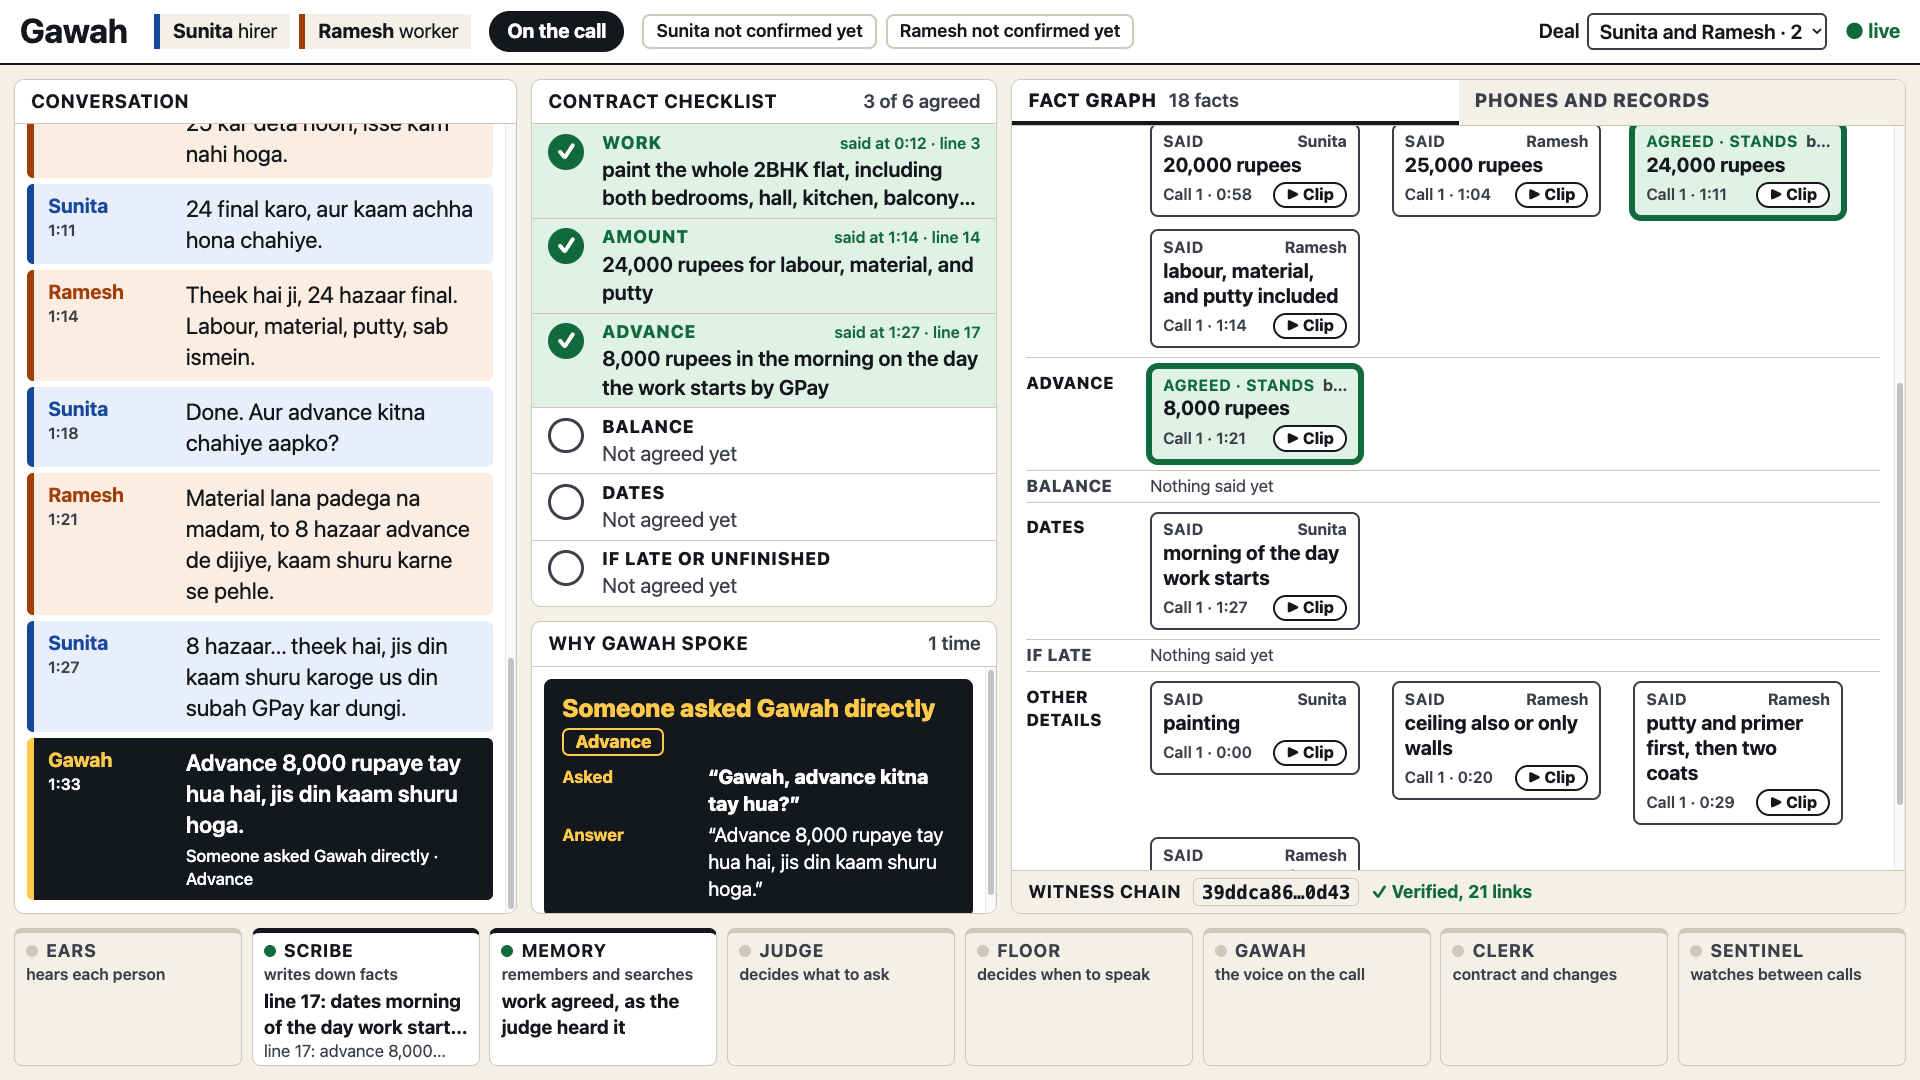
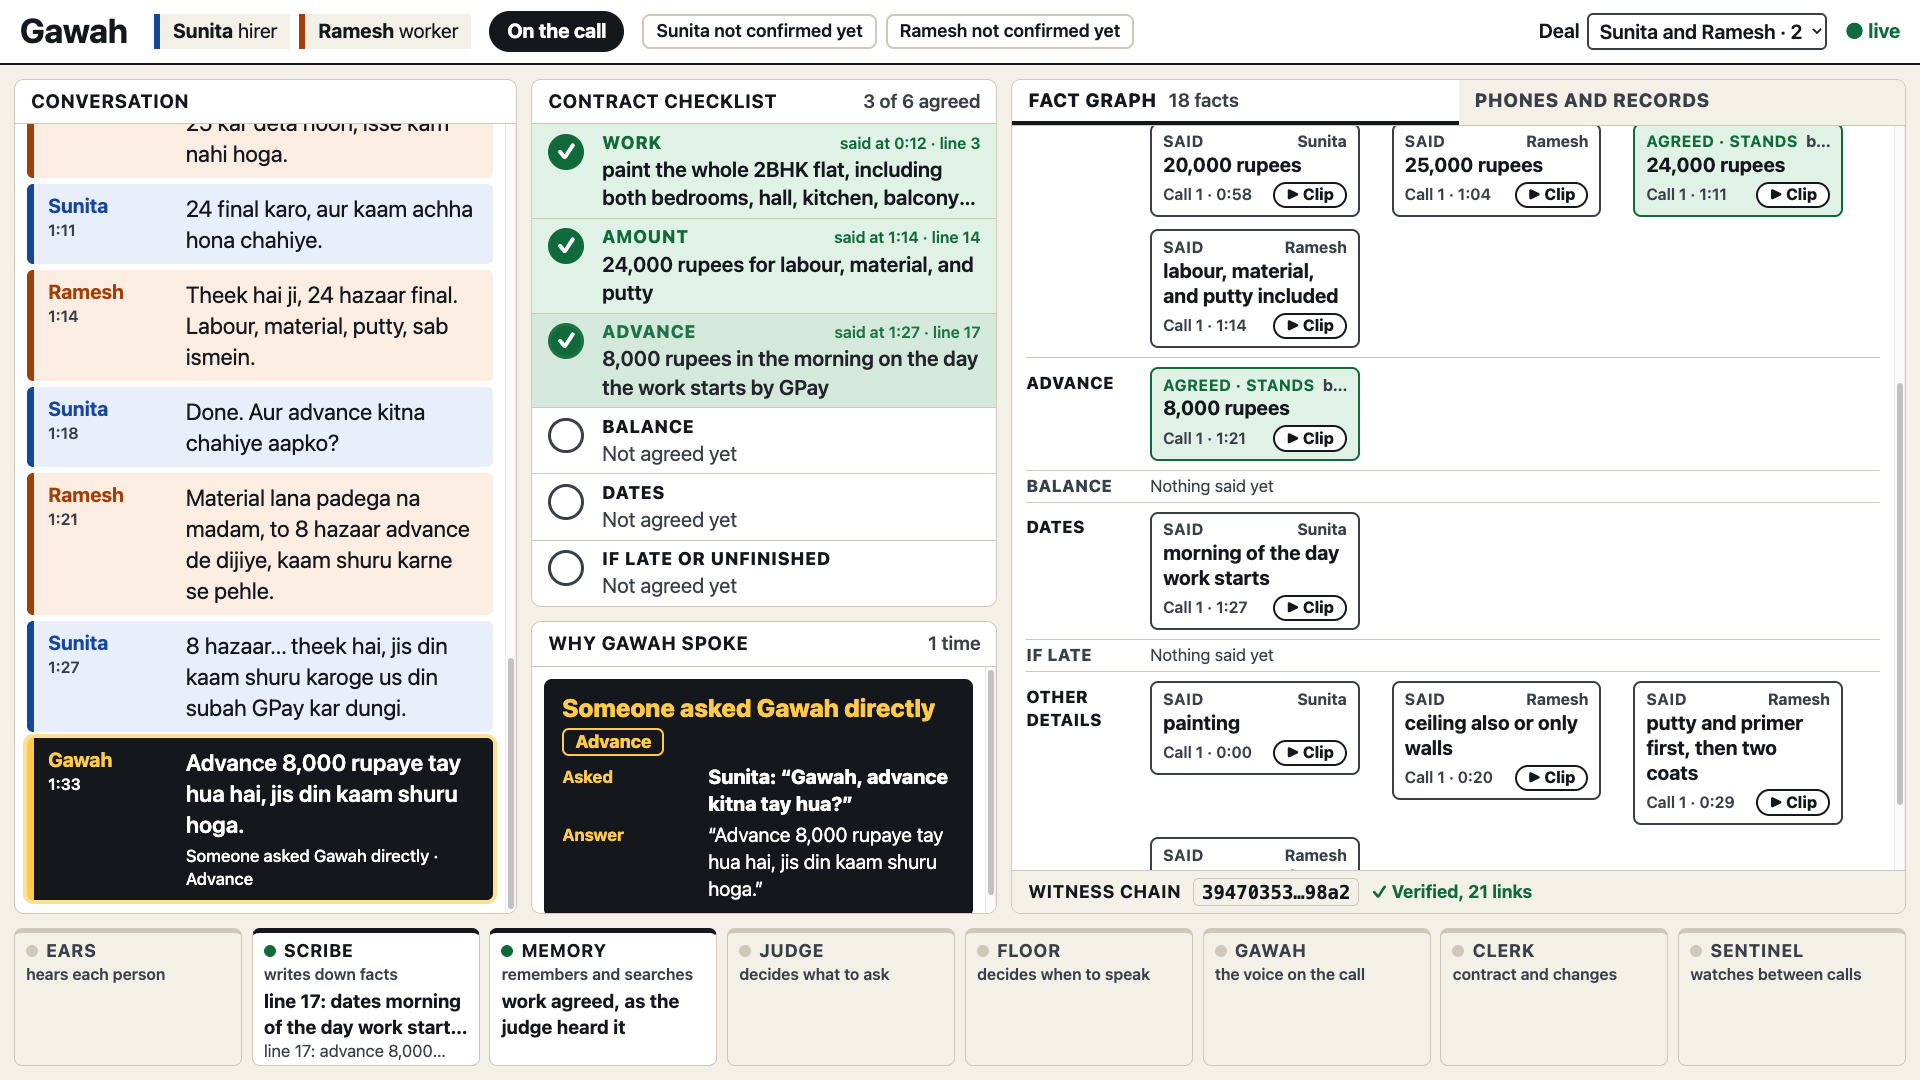
dashboard: a question put to gawah falls back to the line the brain spoke after

diff --git a/app/dashboard/static/render.js b/app/dashboard/static/render.js
@@ -130,11 +130,13 @@ function renderWhy(state, entering) {
     const after = d.afterLine == null ? null
       : line ? `${nameOf(state, line.speaker)} at ${clock(line.start)}, line ${d.afterLine}: “${line.text}”`
       : `line ${d.afterLine}`;
+    const asked = d.question || (d.reason === "addressed_directly" ? line?.text : null);
     return h("article", { class: `decision${i === 0 ? " latest" : ""}${d.id === entering ? " enter" : ""}` },
       h("div", { class: "reason" }, REASONS[d.reason] || d.reason, d.item && h("span", { class: "about" }, ITEM_LABEL[d.item])),
-      // A question put to Gawah reads as the question and the answer under it.
-      d.question ? h("dl", {},
-        h("dt", {}, "Asked"), h("dd", { class: "asked" }, `“${d.question}”`),
+      // A question put to Gawah reads as the question and the answer under it. The brain
+      // does not send the question yet; the line it spoke after is the one that asked.
+      asked ? h("dl", {},
+        h("dt", {}, "Asked"), h("dd", { class: "asked" }, `${line ? `${nameOf(state, line.speaker)}: ` : ""}“${asked}”`),
         h("dt", {}, "Answer"), h("dd", {}, d.spoken ? `“${d.spoken}”${d.interrupted ? " (cut off)" : ""}`
           : d.dropped ? "Nothing: the moment passed" : `${d.instruction} (not said yet)`))
       : h("dl", {},

diff --git a/tests/dashboard_live_shots.py b/tests/dashboard_live_shots.py
@@ -190,7 +190,7 @@ async def main(port: int, out: Path) -> None:
             ))
             await matches_memory(deal)
             why = await chrome.js("document.querySelector('#decisions .decision').textContent")
-            check("Asked“Gawah, advance kitna tay hua?”Answer“Advance 8,000" in why, f"why Gawah spoke: {why[:120]!r}")
+            check("Asked“Gawah, advance kitna tay hua?”Answer“Advance 8,000" in why.replace("Sunita: ", ""), f"why Gawah spoke: {why[:120]!r}")
             await asyncio.sleep(0.5)
             await chrome.shot(out / "1-mid-call.png")
 
